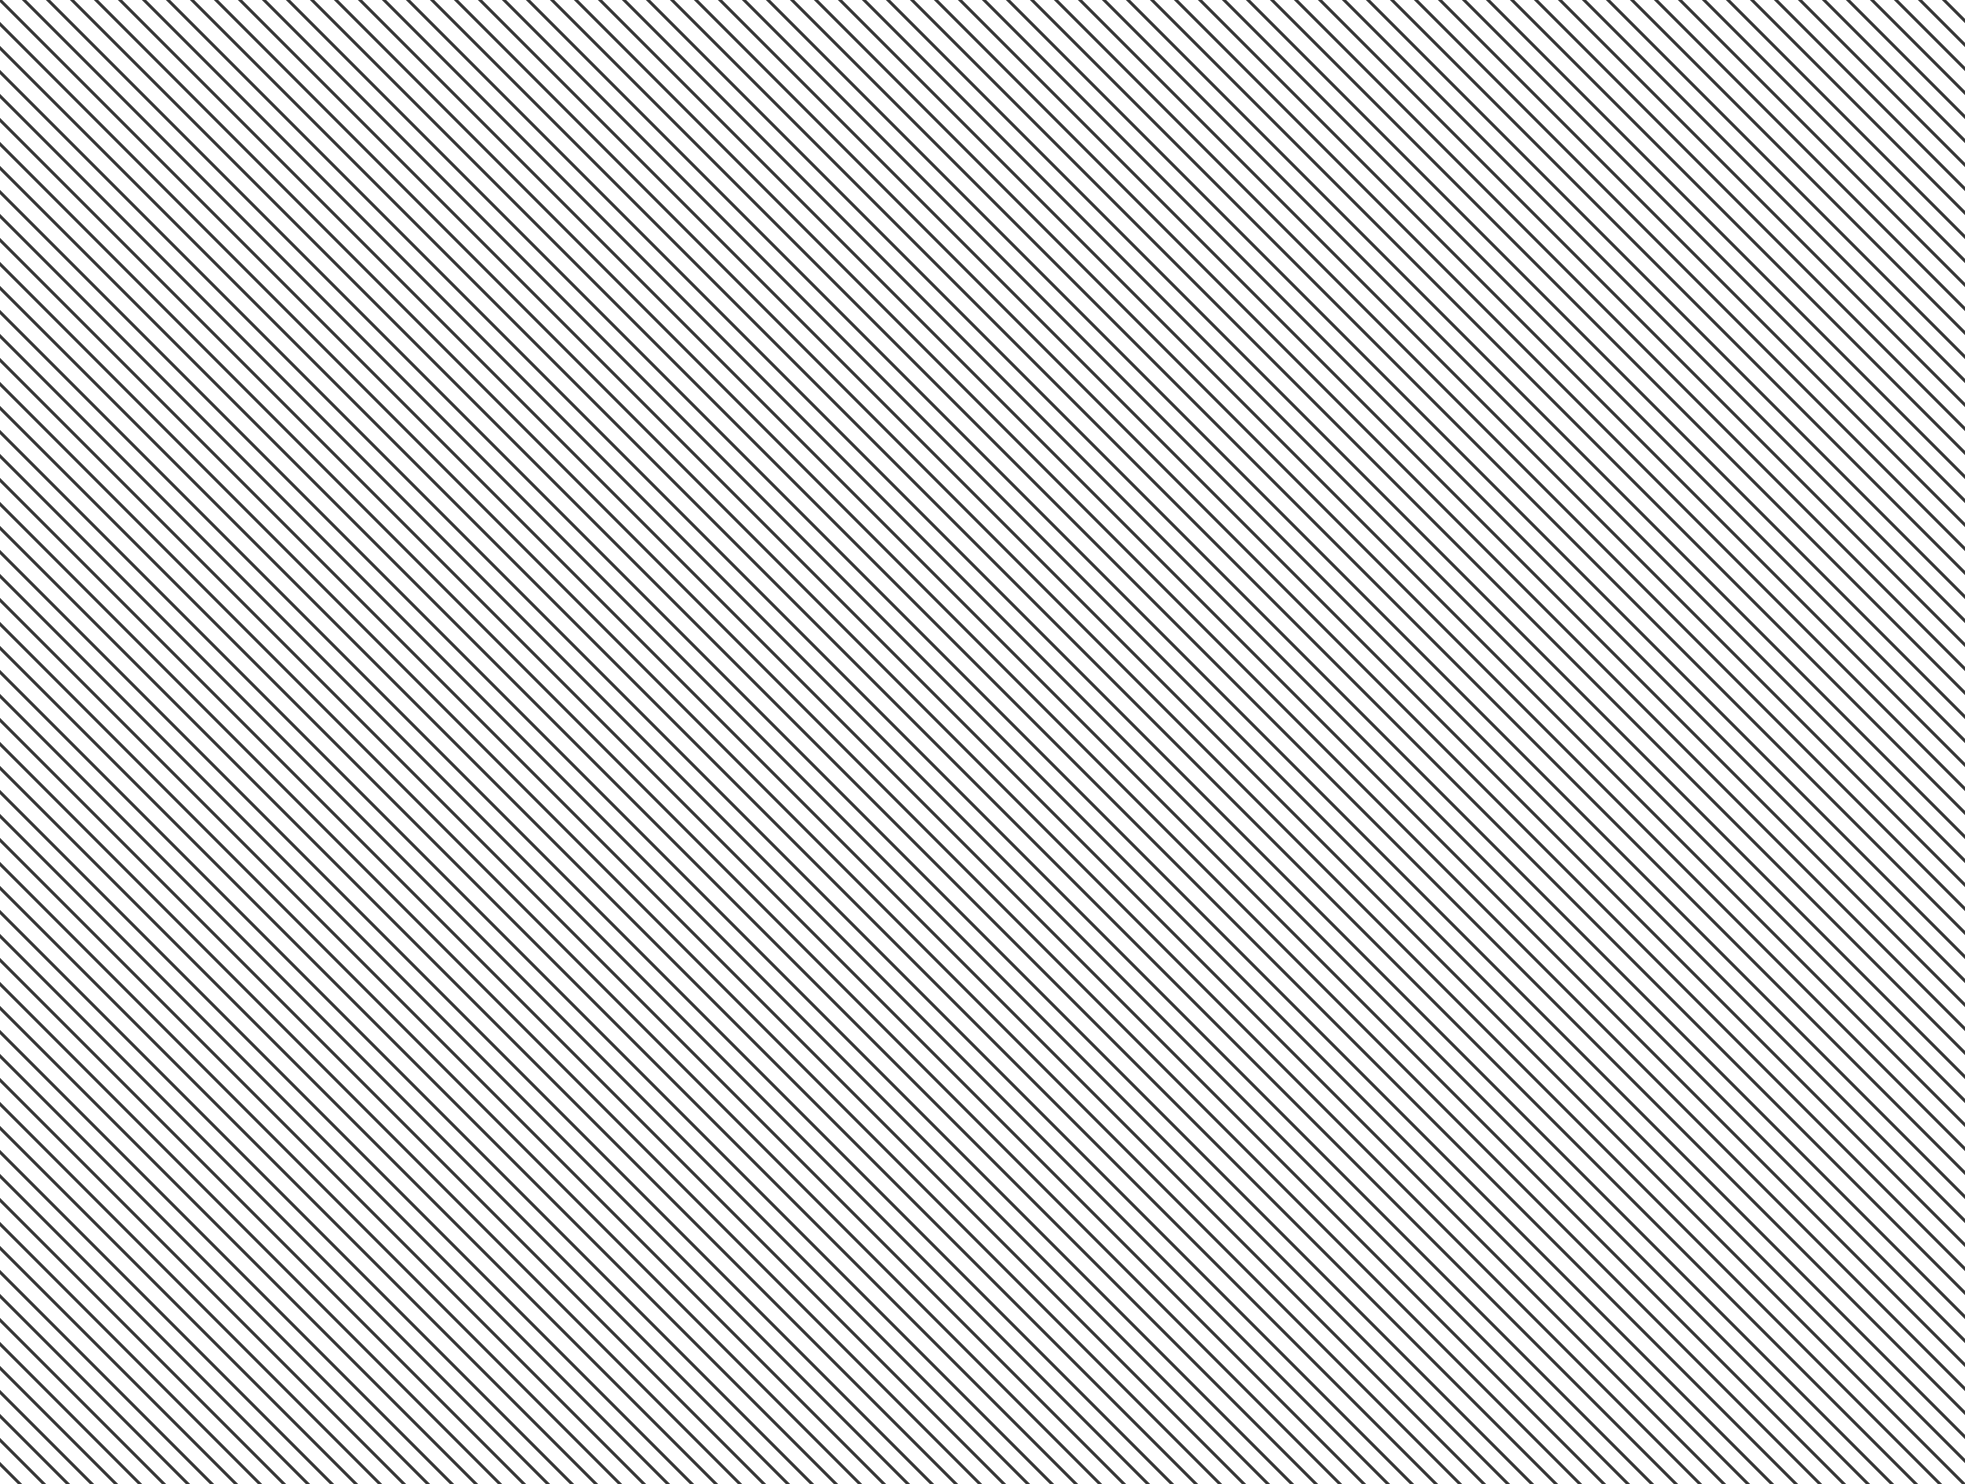
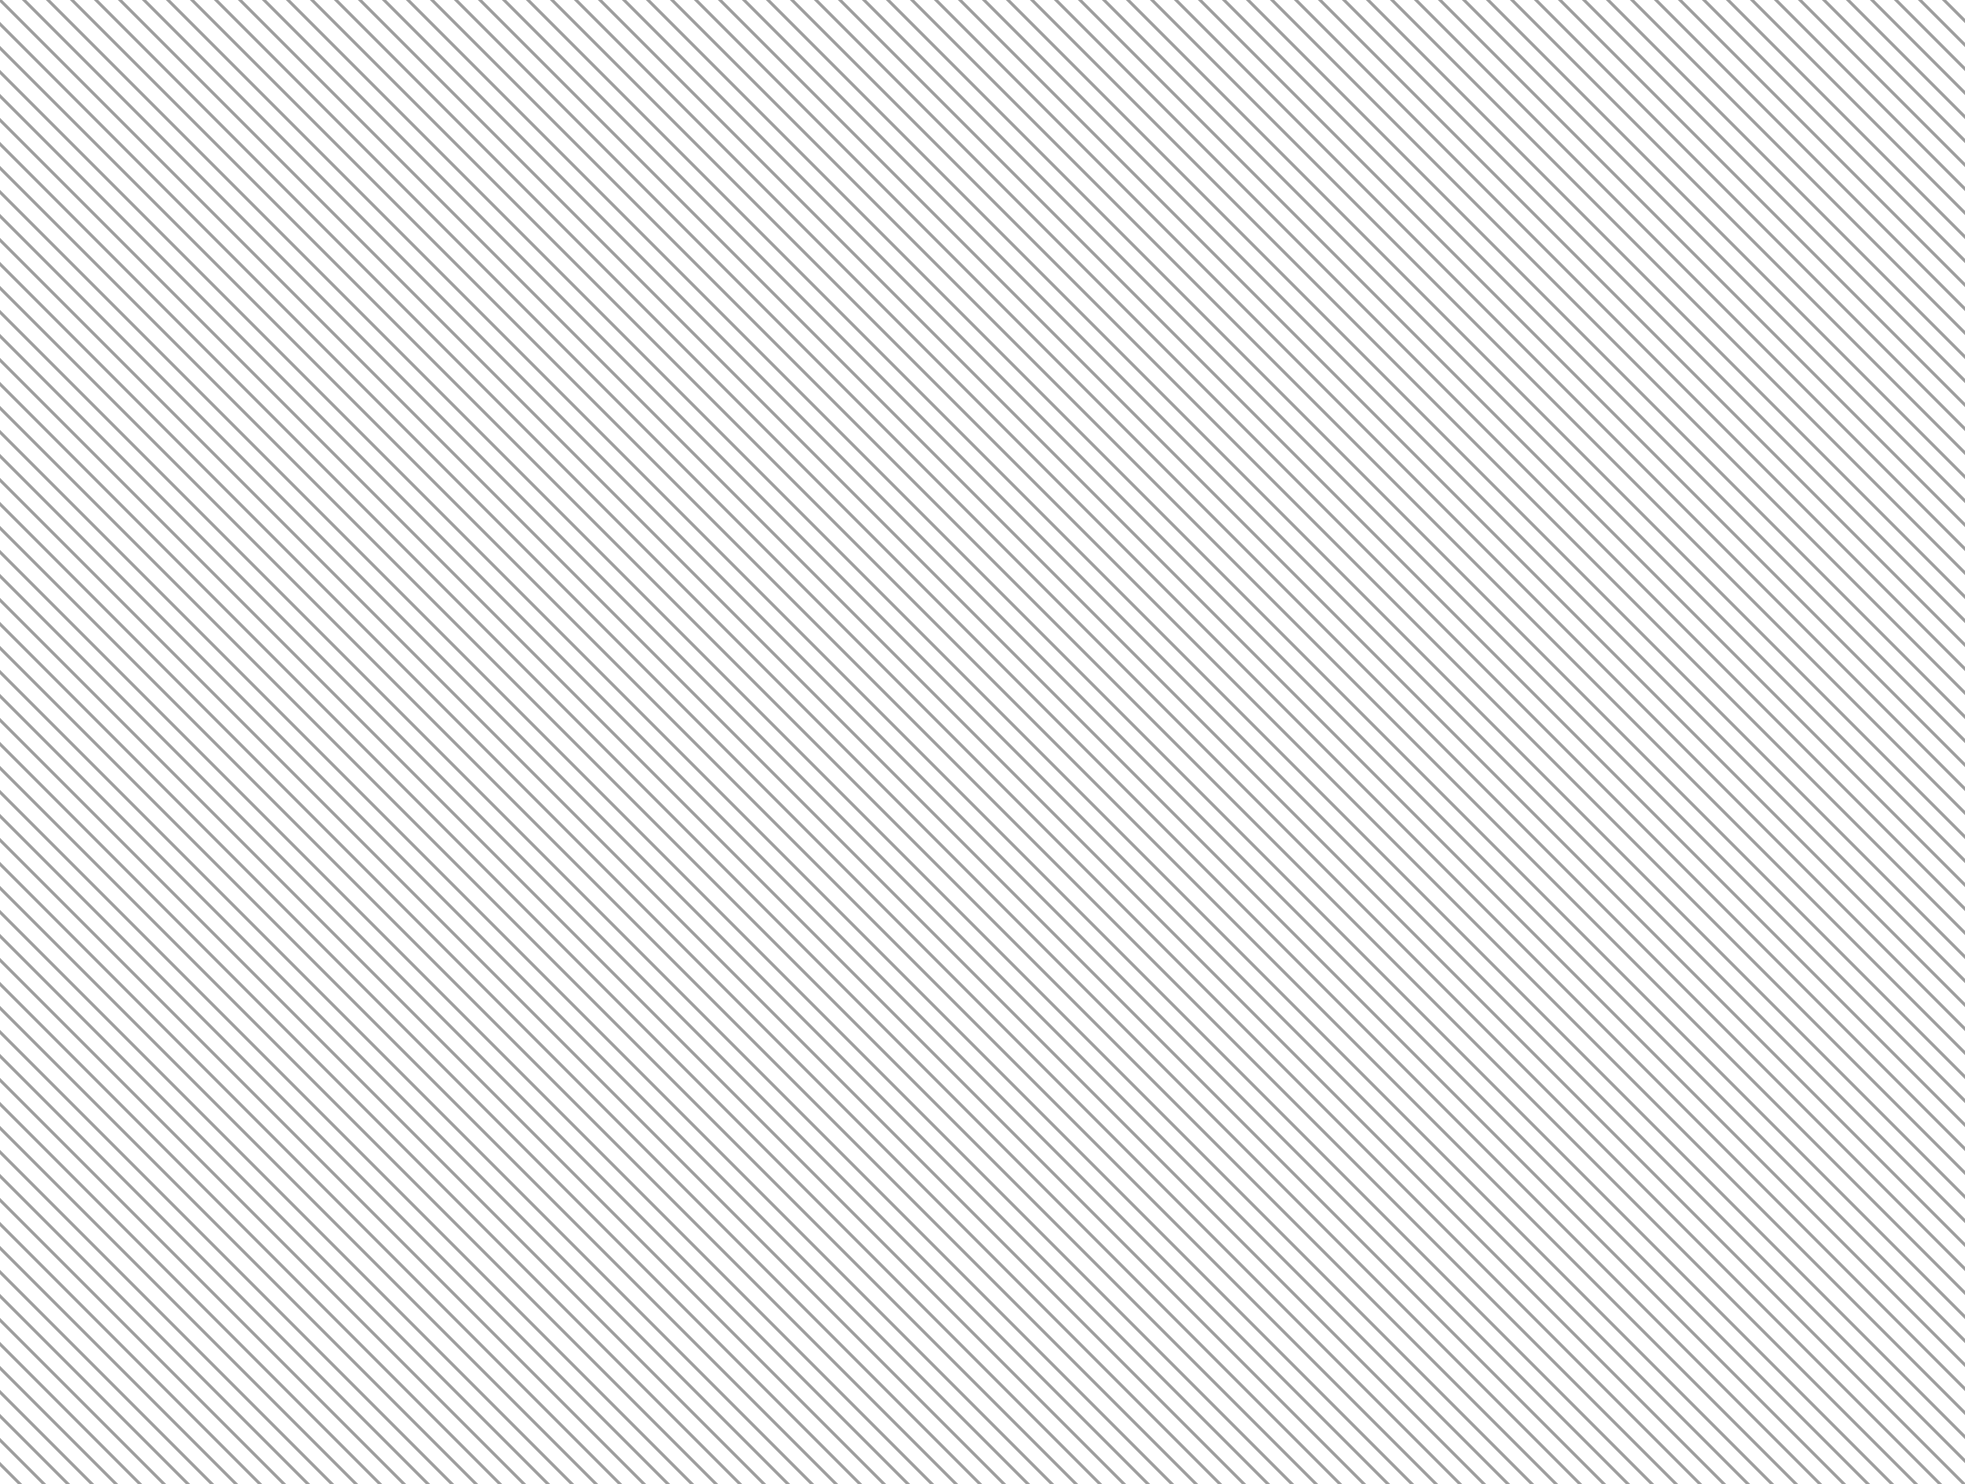
container box color changed and bg tile reupload

Changed region(s): [[0.0, 0.0, 1.0, 1.0]]

diff --git a/post/blogpost.html b/post/blogpost.html
@@ -19,9 +19,10 @@
       main {
         margin: 2em auto;
 
+        
         background: #FFFFFF;
-        border: 5px solid #9B9B9B;
-        box-shadow: 5px 6px 0px 0px #F5A623, 12px 14px 0px 0px #F8E71C;
+        border: 5px solid #676767;
+        box-shadow: 8px 9px 0px 0px #F5A623, 15px 18px 0px 0px #F8E71C;
         padding: 2em 3em;
         max-width: 600px;
       }
